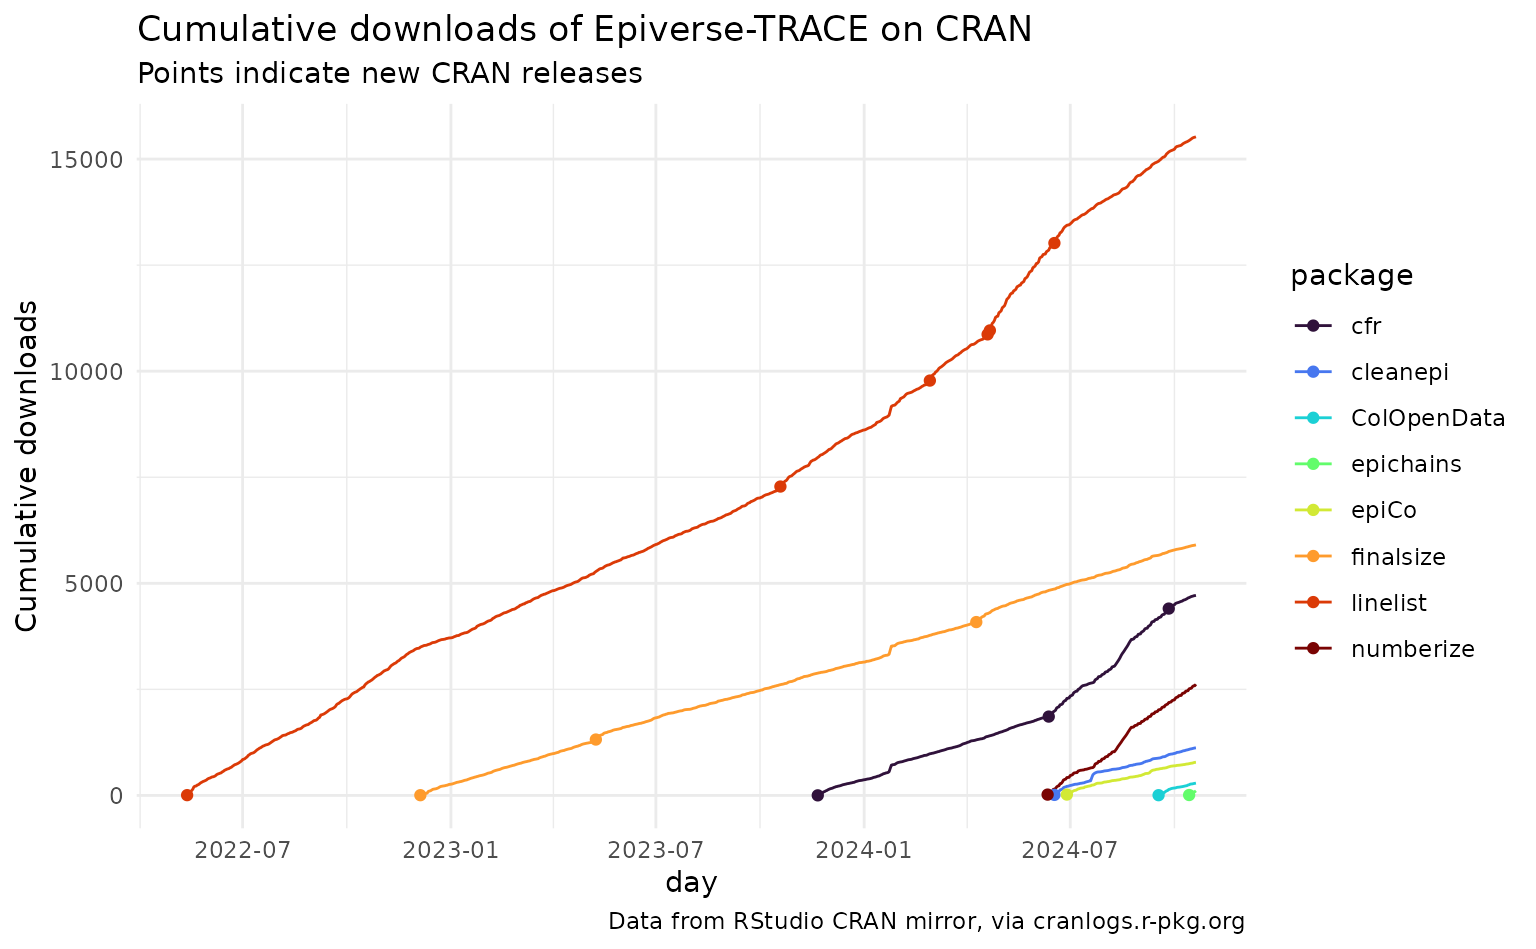
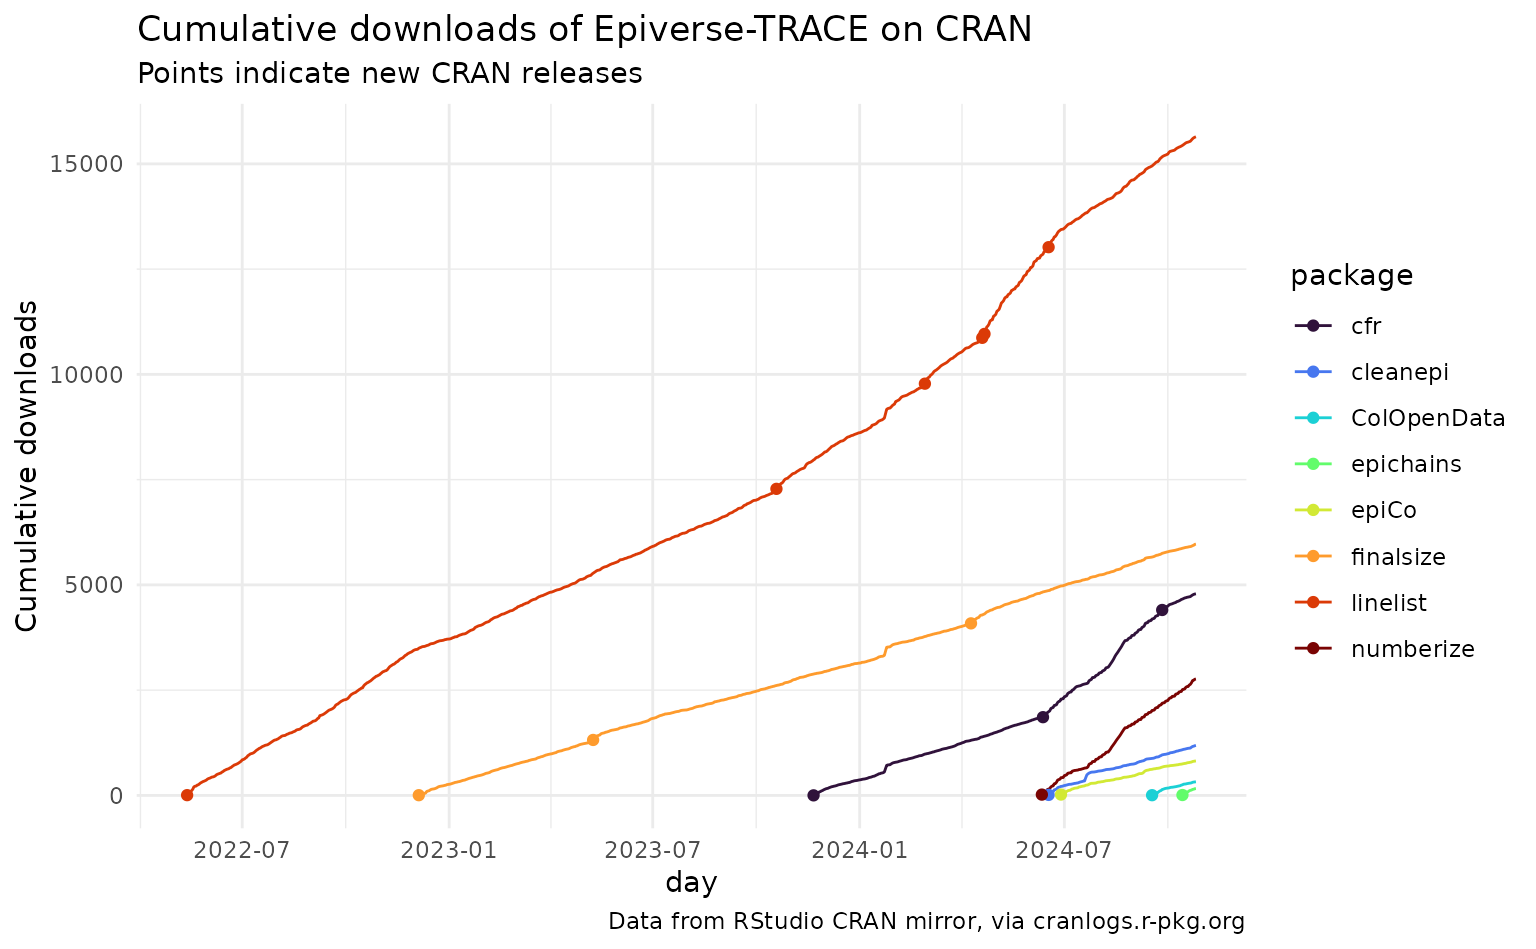
Deploying to gh-pages from @ epiverse-trace/etstats@8cf555a9c30d1fe165e5dc77d17573a7d3d467b8 🚀

diff --git a/articles/cran-statistics.html b/articles/cran-statistics.html
@@ -74,7 +74,7 @@
 
       <h1>CRAN statistics</h1>
             
-            <h4 data-toc-skip class="date">2024-10-22</h4>
+            <h4 data-toc-skip class="date">2024-10-28</h4>
       
       <small class="dont-index">Source: <a href="https://github.com/epiverse-trace/etstats/blob/main/vignettes/cran-statistics.Rmd" class="external-link"><code>vignettes/cran-statistics.Rmd</code></a></small>
       <div class="d-none name"><code>cran-statistics.Rmd</code></div>
@@ -93,7 +93,7 @@
 <li><a href="https://cran.r-project.org/package=ColOpenData" class="external-link">ColOpenData</a></li>
 <li><a href="https://cran.r-project.org/package=finalsize" class="external-link">finalsize</a></li>
 </ul>
-<p>In total, Epiverse-TRACE packages on CRAN have been downloaded 31067
+<p>In total, Epiverse-TRACE packages on CRAN have been downloaded 31651
 times.</p>
 <p>Below is a visualization of the breakdown of this grand total by
 package over time.</p>
@@ -110,55 +110,55 @@ package over time.</p>
 <td align="left">finalsize</td>
 <td align="right">260</td>
 <td align="right">2881</td>
-<td align="right">2765</td>
+<td align="right">2827</td>
 </tr>
 <tr class="even">
 <td align="left">linelist</td>
 <td align="right">3712</td>
 <td align="right">4898</td>
-<td align="right">6916</td>
+<td align="right">7033</td>
 </tr>
 <tr class="odd">
 <td align="left">cfr</td>
 <td align="right">NA</td>
 <td align="right">364</td>
-<td align="right">4352</td>
+<td align="right">4424</td>
 </tr>
 <tr class="even">
 <td align="left">ColOpenData</td>
 <td align="right">NA</td>
 <td align="right">NA</td>
-<td align="right">289</td>
+<td align="right">323</td>
 </tr>
 <tr class="odd">
 <td align="left">cleanepi</td>
 <td align="right">NA</td>
 <td align="right">NA</td>
-<td align="right">1121</td>
+<td align="right">1186</td>
 </tr>
 <tr class="even">
 <td align="left">epiCo</td>
 <td align="right">NA</td>
 <td align="right">NA</td>
-<td align="right">781</td>
+<td align="right">818</td>
 </tr>
 <tr class="odd">
 <td align="left">epichains</td>
 <td align="right">NA</td>
 <td align="right">NA</td>
-<td align="right">108</td>
+<td align="right">161</td>
 </tr>
 <tr class="even">
 <td align="left">numberize</td>
 <td align="right">NA</td>
 <td align="right">NA</td>
-<td align="right">2620</td>
+<td align="right">2764</td>
 </tr>
 <tr class="odd">
 <td align="left">Total</td>
 <td align="right">3972</td>
 <td align="right">8143</td>
-<td align="right">18952</td>
+<td align="right">19536</td>
 </tr>
 </tbody>
 </table></main>

diff --git a/articles/github-statistics.html b/articles/github-statistics.html
@@ -74,7 +74,7 @@
 
       <h1>GitHub statistics</h1>
             
-            <h4 data-toc-skip class="date">2024-10-22</h4>
+            <h4 data-toc-skip class="date">2024-10-28</h4>
       
       <small class="dont-index">Source: <a href="https://github.com/epiverse-trace/etstats/blob/main/vignettes/github-statistics.Rmd" class="external-link"><code>vignettes/github-statistics.Rmd</code></a></small>
       <div class="d-none name"><code>github-statistics.Rmd</code></div>
